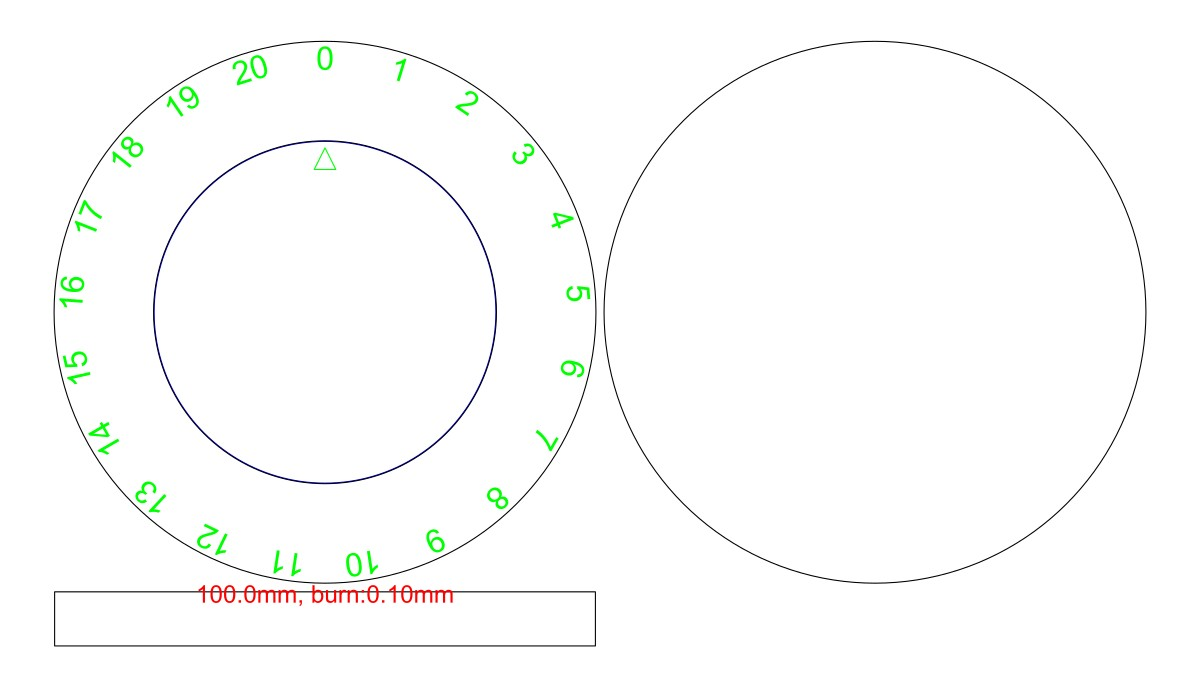
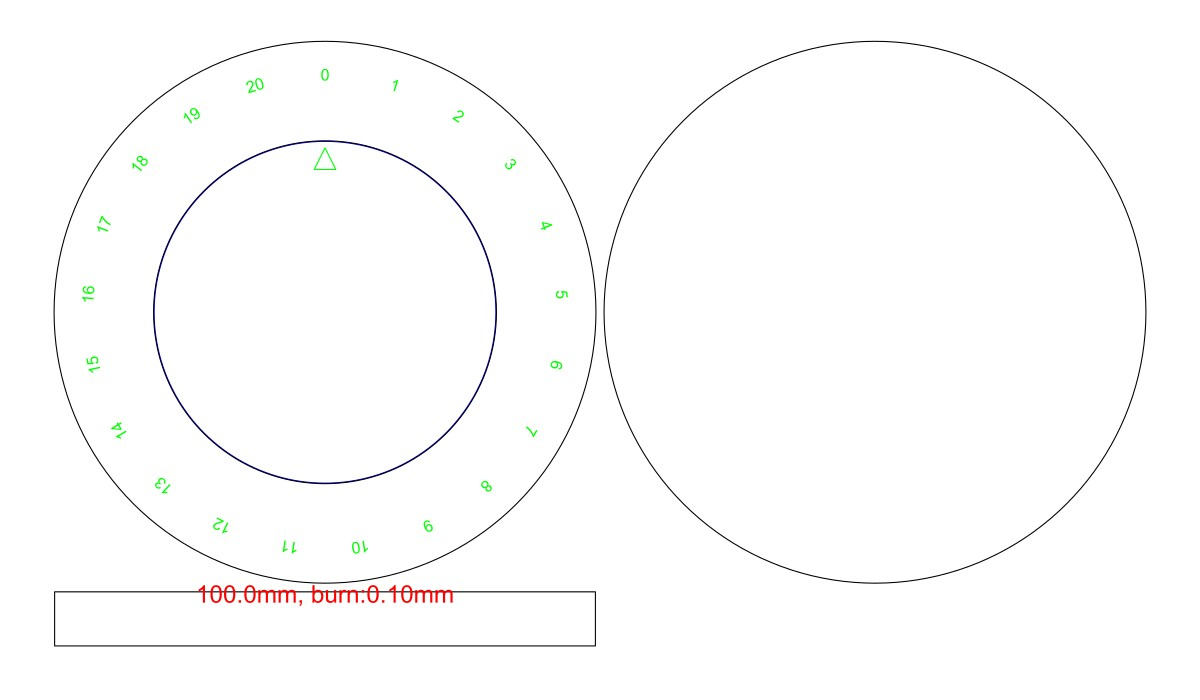
feat: add outer notches and customizable font size for game counter

diff --git a/boxes/generators/game_counter_ring.py b/boxes/generators/game_counter_ring.py
@@ -60,7 +60,7 @@ cut in a single laser pass with minimal material waste.
     inner_radius: float = 32.0
     score_min: int = 0
     score_max: int = 20
-    Font_size: float = 8.0
+    Font_size: float = 4.0
     Font_font: str = "sans-serif"
     Font_bold: bool = False
     Font_italic: bool = False
@@ -68,6 +68,8 @@ cut in a single laser pass with minimal material waste.
     label_invert: bool = False
     pointer_size: float = 4.0
     pointer_style: str = "triangle"
+    notch_outer: bool = False
+    notch_depth: float = 2.0
     play: float = 0.3
     burn: float = 0.1
 
@@ -101,6 +103,12 @@ cut in a single laser pass with minimal material waste.
             "--pointer_style", action="store", type=str, default=self.pointer_style,
             choices=["triangle", "circle", "rectangle", "line"],
             help="Shape of the pointer engraved on Piece B")
+        self.argparser.add_argument(
+            "--notch_outer", action="store", type=boolarg, default=self.notch_outer,
+            help="Add gear-like notches on the outer rim of Piece A (one notch per score value)")
+        self.argparser.add_argument(
+            "--notch_depth", action="store", type=float, default=self.notch_depth,
+            help="Depth of each outer notch [mm]")
         self.argparser.add_argument(
             "--play", action="store", type=float, default=self.play,
             help="Radial clearance between ring inner edge and dial [mm]")
@@ -204,6 +212,72 @@ cut in a single laser pass with minimal material waste.
         fn = getattr(self, f"_pointer_{style}")
         fn(cx, cy, disc_r, ps, ctx)
 
+    def _draw_outer_notches(self, cx: float, cy: float,
+                             ro: float, ctx: Context) -> None:
+        """Draw the outer perimeter of Piece A with gear-like rectangular notches.
+
+        One notch (tooth gap) is cut per score value, evenly distributed
+        around the full 360°.  The tooth width equals the gap width so the
+        duty cycle is 50 %.  The notch depth is ``self.notch_depth``.
+        """
+        n = self.score_max - self.score_min + 1
+        if n < 1:
+            return
+
+        depth = self.notch_depth
+        ri_notch = ro - depth          # bottom of the notch (inner radius)
+
+        angle_step = 2.0 * math.pi / n   # full sector per score value (tooth + gap)
+        half = angle_step / 2.0           # half sector = tooth half-angle
+        quarter = half / 2.0              # quarter = boundary between tooth and gap
+
+        self.set_source_color(Color.OUTER_CUT)
+
+        # Start angle: centre of the first tooth, offset so a tooth sits at
+        # the top (π/2 in math coords = pointing up on screen after Y-flip).
+        start_angle = math.pi / 2.0
+
+        # Build the path: for each of the n sectors draw  tooth → gap.
+        # A sector spans [start_angle + i*angle_step - half,
+        #                 start_angle + i*angle_step + half]
+        # The tooth occupies the outer half of the sector (±quarter around centre).
+        # The gap  occupies the remaining ±(half - quarter) on each side, at ri_notch.
+
+        def pt_outer(a: float) -> tuple[float, float]:
+            return (cx + ro * math.cos(a), cy + ro * math.sin(a))
+
+        def pt_inner(a: float) -> tuple[float, float]:
+            return (cx + ri_notch * math.cos(a), cy + ri_notch * math.sin(a))
+
+        # First point: start of first gap (left edge of sector 0)
+        first_a = start_angle - half
+        x0, y0 = pt_inner(first_a)
+        ctx.move_to(x0, y0)
+
+        for i in range(n):
+            centre_a = start_angle + i * angle_step
+            gap_start  = centre_a - half        # left edge of sector  (inner)
+            tooth_start = centre_a - quarter    # left edge of tooth   (outer)
+            tooth_end   = centre_a + quarter    # right edge of tooth  (outer)
+            gap_end     = centre_a + half       # right edge of sector (inner)
+
+            # --- gap arc at ri_notch from gap_start → tooth_start ---
+            # Use a single arc at the inner radius.
+            ctx.arc(cx, cy, ri_notch, gap_start, tooth_start)
+
+            # --- step up to outer radius ---
+            ctx.line_to(*pt_outer(tooth_start))
+
+            # --- tooth arc at ro from tooth_start → tooth_end ---
+            ctx.arc(cx, cy, ro, tooth_start, tooth_end)
+
+            # --- step back down to inner radius ---
+            ctx.line_to(*pt_inner(tooth_end))
+
+        # Close path back to the starting inner point
+        ctx.line_to(x0, y0)
+        ctx.stroke()
+
     # ------------------------------------------------------------------
     # Pieces
     # ------------------------------------------------------------------
@@ -213,9 +287,12 @@ cut in a single laser pass with minimal material waste.
         ro = self.outer_radius
         ri = self.inner_radius - self.play
 
-        # Outer perimeter cut
-        self.set_source_color(Color.OUTER_CUT)
-        self.circle(cx, cy, ro)
+        # Outer perimeter cut – plain circle or notched gear rim
+        if self.notch_outer:
+            self._draw_outer_notches(cx, cy, ro, ctx)
+        else:
+            self.set_source_color(Color.OUTER_CUT)
+            self.circle(cx, cy, ro)
 
         # Inner hole cut
         self.set_source_color(Color.INNER_CUT)
